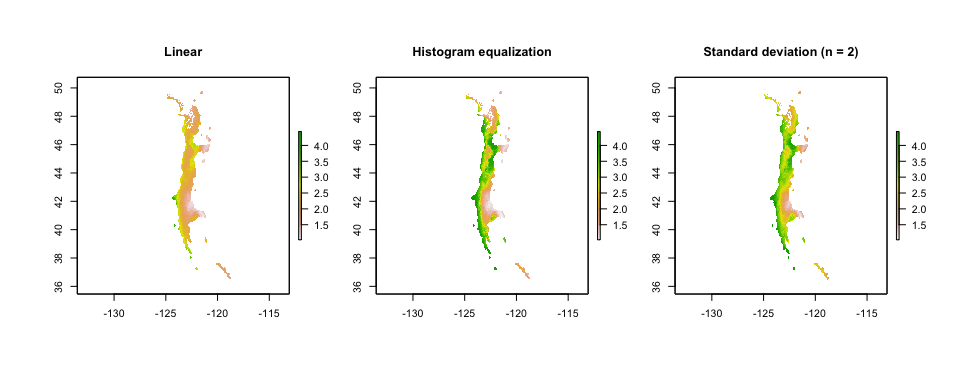
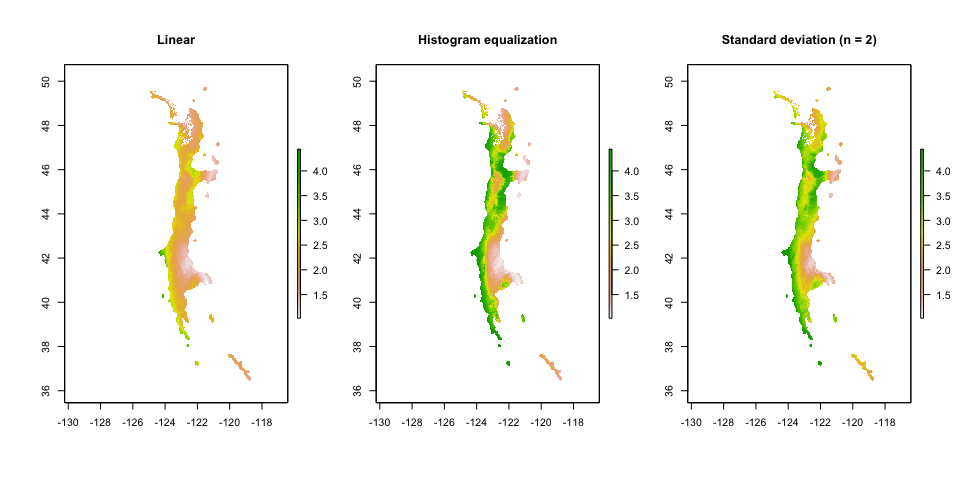
Added global covariance slot for departure objects.

diff --git a/README.md b/README.md
@@ -180,7 +180,7 @@ vuln
 #>   MDR   ISO    TS HMmax CMmin   PWM   PDM    PS   PWQ   PDQ 
 #>  0.14  0.16  0.28  0.40  0.40  0.26  0.12  0.26  0.25  0.11 
 #> 
-#> Overall vulnerability: 0.821
+#> Overall vulnerability: 0.9049
 ```
 
 Using the `vulnerability_map` function, we can create a habitat map that identifies where we expect the species to be most vulnerable to climate change.
@@ -224,7 +224,7 @@ The `map` function provides a simple way to adjust the contrast of plots of Rast
 
 ``` r
 sm <- sensitivity_map(mod.cnfa)
-par(mfrow = c(1, 3), oma = c(2,2,2,3))
+par(mfrow = c(1, 3), oma = c(1,1,1,1))
 map(sm, main = "Linear")
 map(sm, type = "stretch", main = "Histogram equalization")
 map(sm, type = "sd", n = 2, main = "Standard deviation (n = 2)")
